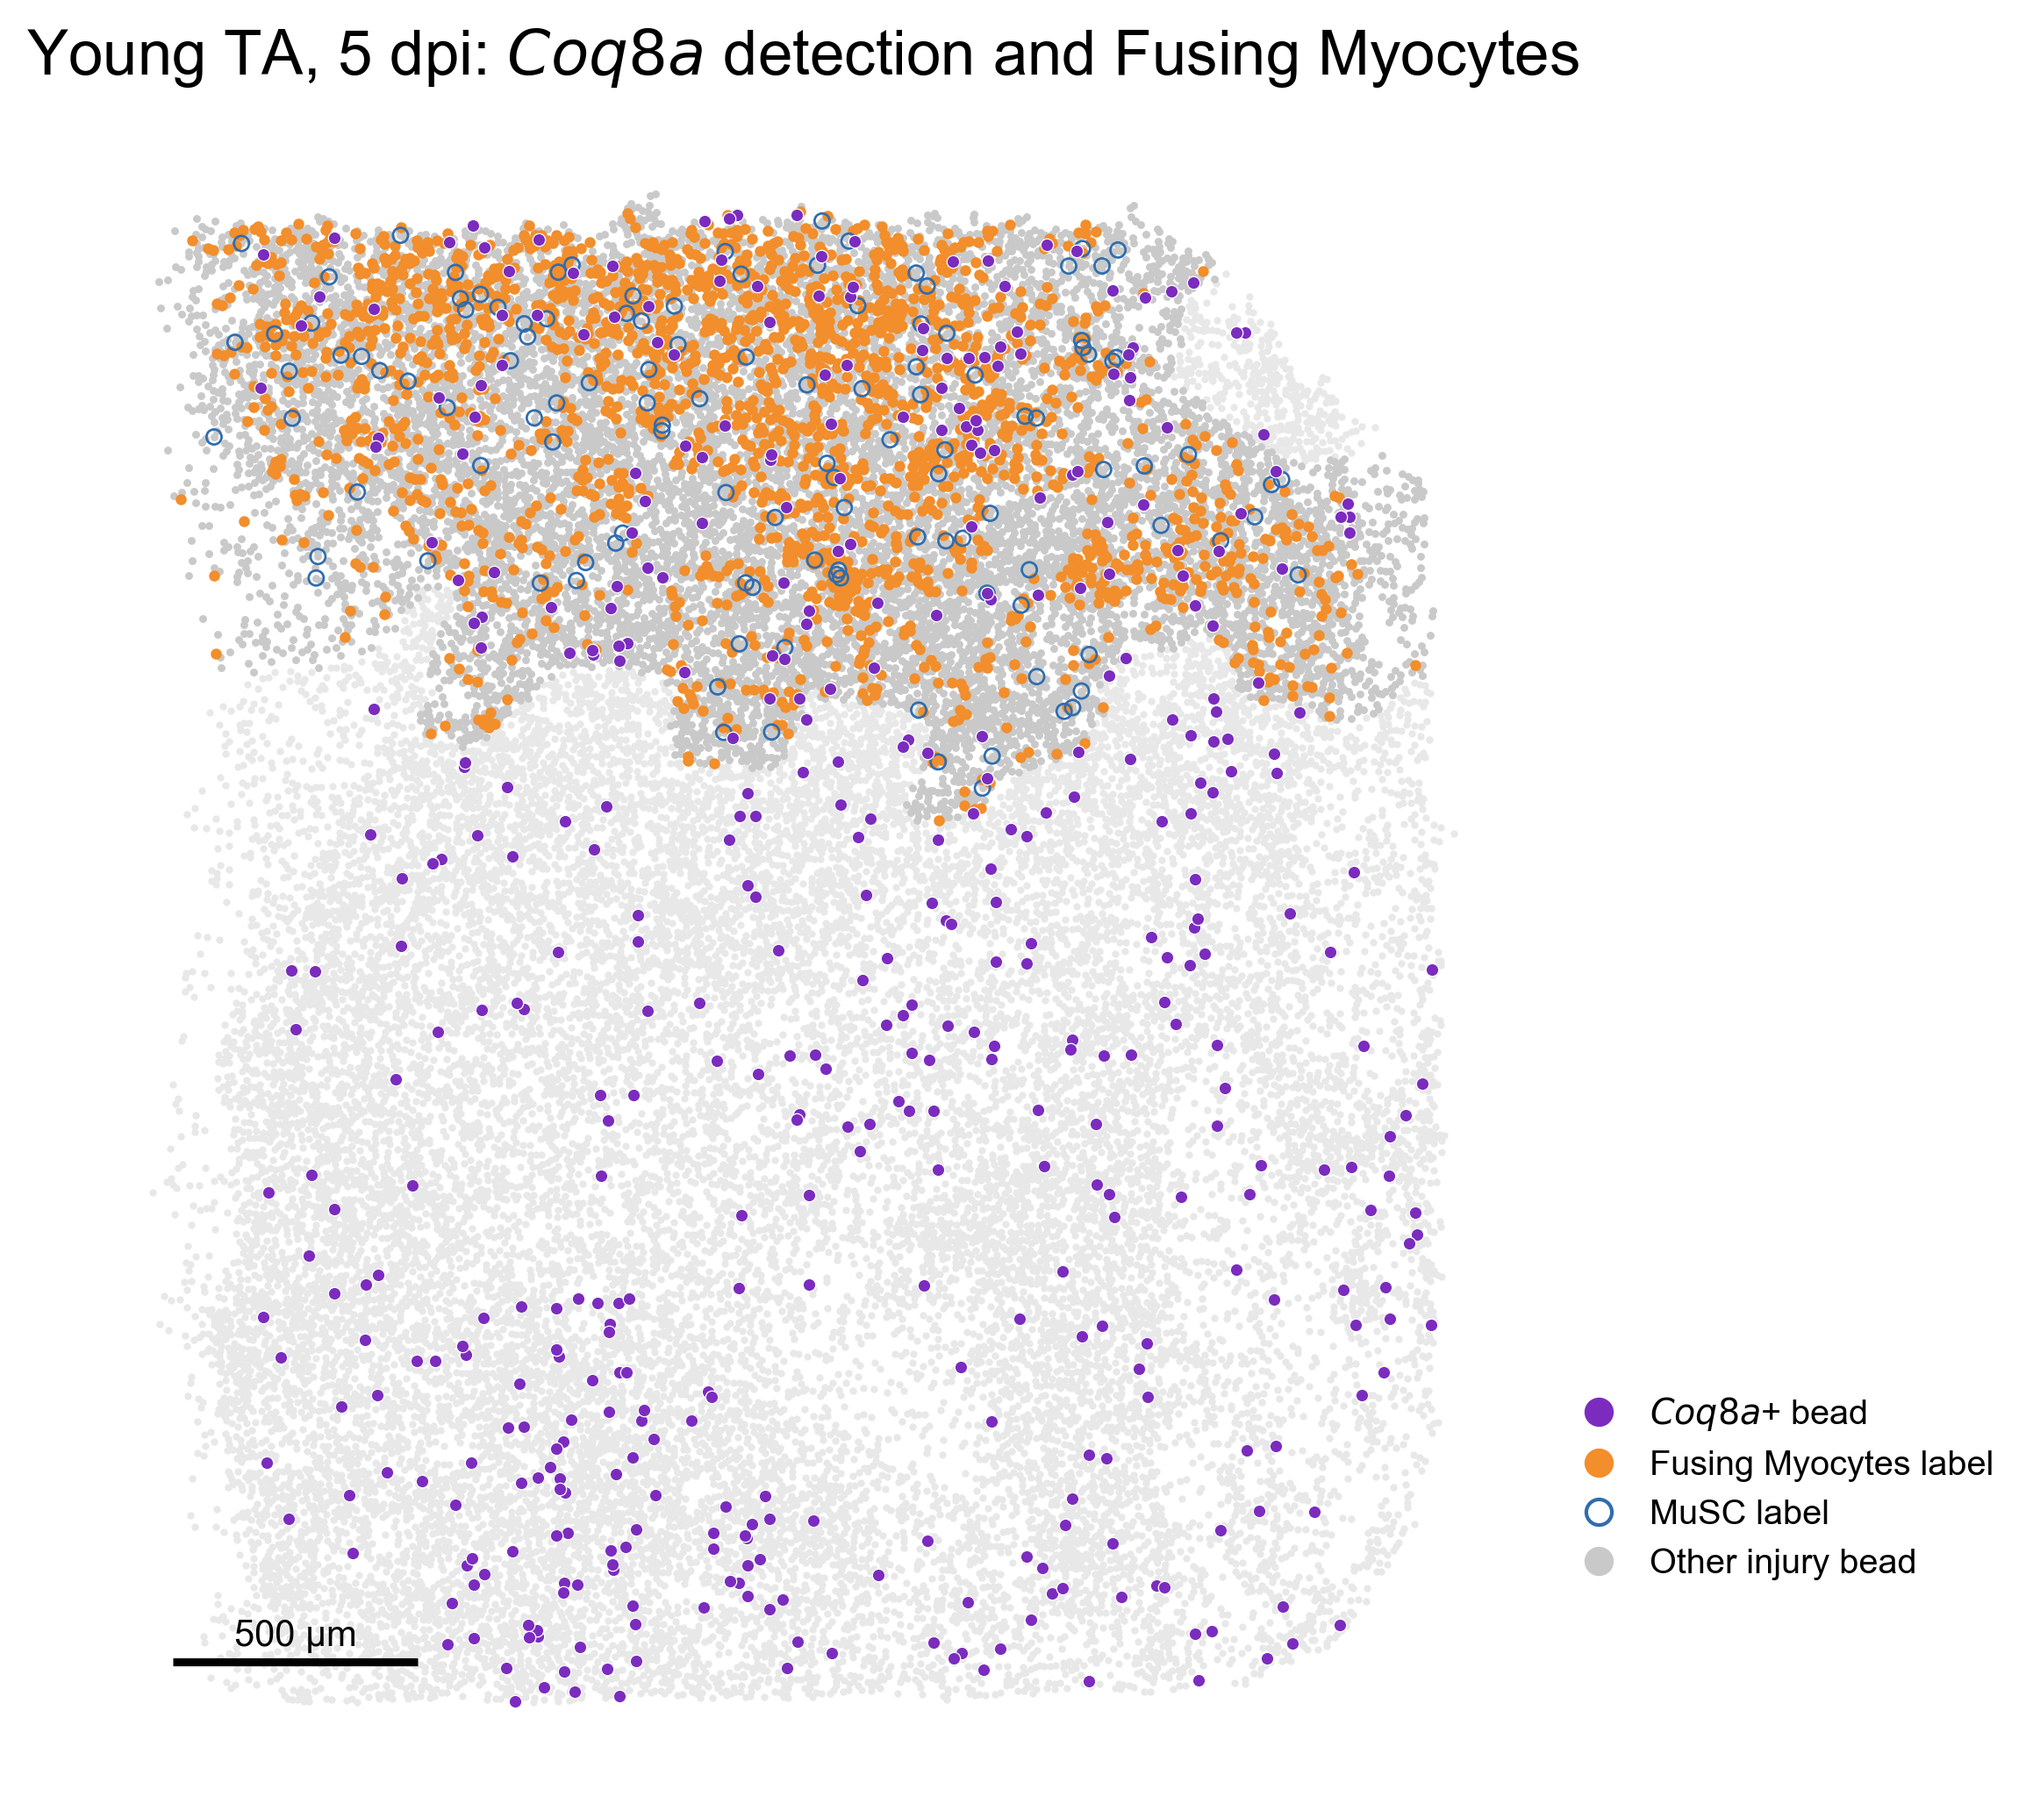
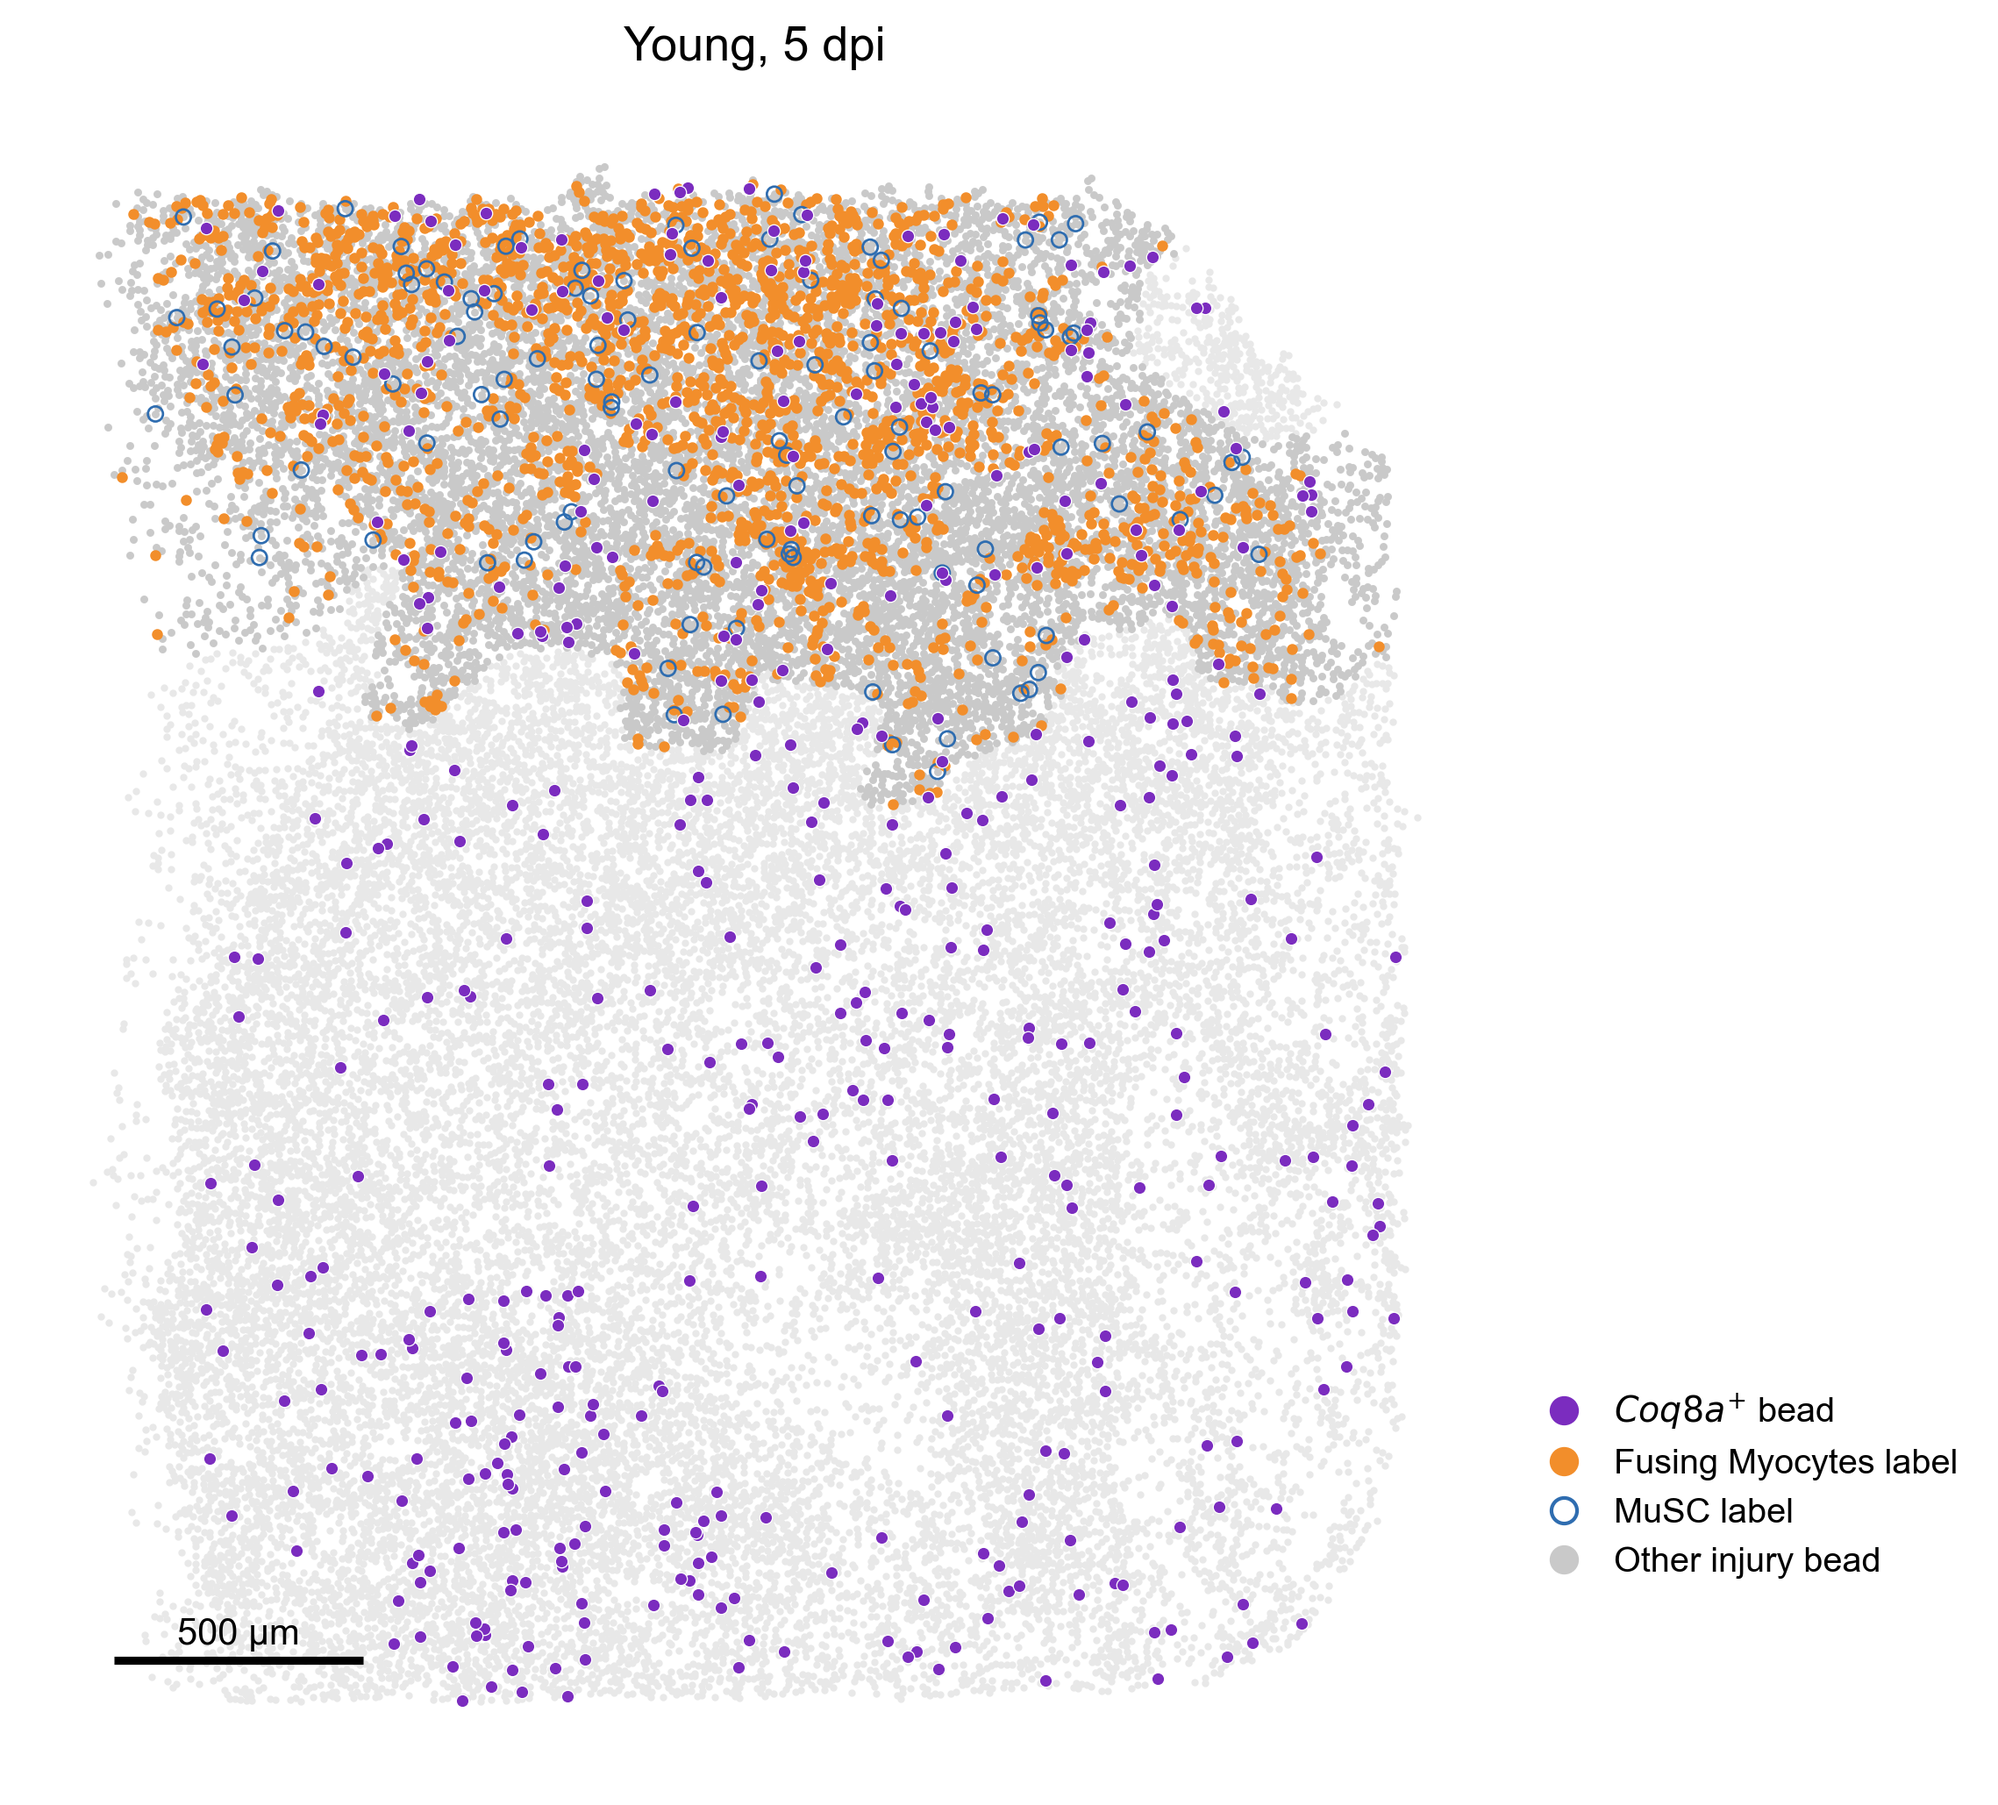
Refine manuscript figure presentation

diff --git a/code/run_spatial_analysis.py b/code/run_spatial_analysis.py
@@ -474,7 +474,9 @@ def add_scale_bar(ax, length_um: int = 500, side: str = "left"):
 
 
 def plot_qc(qc: pd.DataFrame, output: Path):
-    fig, axes = plt.subplots(1, 2, figsize=(10.4, 4.8), gridspec_kw={"width_ratios": [1.25, 1]})
+    fig = plt.figure(figsize=(8.2, 6.2), constrained_layout=True)
+    grid = fig.add_gridspec(2, 3, height_ratios=[1.15, 1])
+    axes = [fig.add_subplot(grid[0, :])] + [fig.add_subplot(grid[1, i]) for i in range(3)]
     stages = ["Raw beads", "Counts ≥20", "Final retained beads"]
     x = np.arange(len(stages))
     width = 0.34
@@ -484,25 +486,31 @@ def plot_qc(qc: pd.DataFrame, output: Path):
         axes[0].bar(x + (i - 0.5) * width, values, width, color=SAMPLES[sample]["color"], label=sample)
     axes[0].set_xticks(x, stages)
     axes[0].set_ylabel("Beads")
-    axes[0].set_title("Spatial transcriptomics quality control")
+    axes[0].set_title("Bead retention", fontsize=12.5)
     axes[0].legend(frameon=False)
 
-    metrics = ["median_raw_counts", "median_mt_pct", "coq8a_detection_pct"]
-    labels = ["Median counts", "Median mtRNA (%)", r"$\it{Coq8a}$+ beads (%)"]
-    xpos = np.arange(len(metrics))
-    for offset, sample in ((-0.10, "Young"), (0.10, "Geriatric")):
-        row = qc.loc[qc["sample"].eq(sample)].iloc[0]
-        values = [row[m] for m in metrics]
-        axes[1].scatter(xpos + offset, values, s=70, color=SAMPLES[sample]["color"], label=sample)
-        for xi, value in zip(xpos + offset, values):
-            axes[1].text(xi, value, f" {value:.1f}", va="center", fontsize=9)
-    axes[1].set_xticks(xpos, labels, rotation=18, ha="right")
-    axes[1].set_title("Final spatial beads")
-    axes[1].set_ylim(bottom=0)
+    metrics = [
+        ("median_raw_counts", "Median library size", "Raw counts per bead"),
+        ("median_mt_pct", "Mitochondrial fraction", "Mitochondrial reads (%)"),
+        ("coq8a_detection_pct", r"$\it{Coq8a}$ detection", r"$\it{Coq8a}^{+}$ beads (%)"),
+    ]
+    for ax, (metric, title, ylabel) in zip(axes[1:], metrics):
+        values = []
+        for sample_index, sample in enumerate(("Young", "Geriatric")):
+            value = float(qc.loc[qc["sample"].eq(sample), metric].iloc[0])
+            values.append(value)
+            ax.scatter(sample_index, value, s=68, color=SAMPLES[sample]["color"], zorder=3)
+            ax.text(sample_index, value, f"  {value:.1f}", va="center", fontsize=9.5)
+        ax.set_xticks([0, 1], ["Young", "Geriatric"])
+        ax.set_xlim(-0.35, 1.55)
+        ax.set_ylim(0, max(values) * 1.25)
+        ax.set_title(title, fontsize=12.5)
+        ax.set_ylabel(ylabel, fontsize=10.5)
+        ax.yaxis.grid(True, color="#EAEAEA", linewidth=0.7)
+        ax.set_axisbelow(True)
     for ax in axes:
         ax.spines[["top", "right"]].set_visible(False)
-        ax.tick_params(labelsize=10)
-    fig.tight_layout()
+        ax.tick_params(labelsize=10.5)
     fig.savefig(output, dpi=300, bbox_inches="tight", facecolor="white")
     plt.close(fig)
 
@@ -517,7 +525,7 @@ def plot_celltype_map(frame: pd.DataFrame, sample: str, output: Path):
     ax.invert_yaxis()
     ax.axis("off")
     add_scale_bar(ax, side="right")
-    ax.set_title(f"{sample} TA, 5 dpi: dominant cell2location label", fontsize=17, pad=12)
+    ax.set_title(f"{sample}, 5 dpi", fontsize=13, pad=8)
     handles = [Line2D([0], [0], marker="o", linestyle="", color=CELL_COLORS[c], markersize=6, label=c) for c in CELL_TYPES]
     ax.legend(handles=handles, frameon=False, fontsize=9.2, bbox_to_anchor=(1.01, 0.5), loc="center left", handletextpad=0.4)
     fig.tight_layout()
@@ -541,9 +549,9 @@ def plot_coq_map(frame: pd.DataFrame, sample: str, output: Path):
     ax.invert_yaxis()
     ax.axis("off")
     add_scale_bar(ax)
-    ax.set_title(f"{sample} TA, 5 dpi: " + r"$\it{Coq8a}$ detection and Fusing Myocytes", fontsize=17, pad=12)
+    ax.set_title(f"{sample}, 5 dpi", fontsize=13, pad=8)
     handles = [
-        Line2D([0], [0], marker="o", linestyle="", color="#7B2CBF", markersize=7, label=r"$\it{Coq8a}$+ bead"),
+        Line2D([0], [0], marker="o", linestyle="", color="#7B2CBF", markersize=7, label=r"$\it{Coq8a}^{+}$ bead"),
         Line2D([0], [0], marker="o", linestyle="", color="#F28E2B", markersize=7, label="Fusing Myocytes label"),
         Line2D([0], [0], marker="o", linestyle="", markerfacecolor="none", markeredgecolor="#2F6DB0", markersize=7, label="MuSC label"),
         Line2D([0], [0], marker="o", linestyle="", color="#C9C9C9", markersize=7, label="Other injury bead"),
@@ -583,17 +591,15 @@ def plot_celltype_association(table: pd.DataFrame, output: Path):
         )
         sig = data["p_adj_bh_within_section_15_labels"].lt(0.05).to_numpy()
         for x_value, y_value, p_value in zip(values[sig], (y + offset)[sig], data.loc[sig, "p_adj_bh_within_section_15_labels"]):
-            ax.text(x_value * 1.18, y_value, "*", color="#A01863", fontsize=18, fontweight="bold", va="center")
-            ax.text(5.8, y_value, rf"adj. $p$={p_value:.3g}", color="#6A3153", fontsize=9.2, va="center")
+            ax.scatter(x_value, y_value, s=112, facecolors="none", edgecolors="#A01863", linewidths=1.5, zorder=4)
+            ax.text(5.8, y_value, rf"BH-adjusted $p$ = {p_value:.3g}", color="#6A3153", fontsize=9.5, va="center")
     ax.axvline(1, color="#777777", lw=1, ls="--")
     ax.set_xscale("log")
     ax.set_xlim(0.03, 45)
     ax.set_yticks(y, names)
     ax.invert_yaxis()
     ax.set_xlabel(r"Odds ratio of $\it{Coq8a}$ detection (95% CI)")
-    ax.set_title(r"$\it{Coq8a}$ detection is associated with Fusing Myocytes-labelled regions", loc="left", fontsize=15)
     ax.legend(frameon=False, loc="lower right")
-    ax.text(0.99, 0.018, r"* BH-adjusted $p$ < 0.05", transform=ax.transAxes, ha="right", fontsize=8.8, color="#555555")
     ax.spines[["top", "right"]].set_visible(False)
     ax.tick_params(labelsize=11)
     fig.tight_layout()
@@ -619,29 +625,37 @@ def plot_marker_audit(table: pd.DataFrame, output: Path):
                 "mean_expression": data.loc[gene, mean_col],
             })
     plot = pd.DataFrame(plot_rows)
-    fig, ax = plt.subplots(figsize=(7.5, 5.5))
+    fig, ax = plt.subplots(figsize=(7.8, 5.5))
+    ax.axvspan(-0.55, 1.5, color="#F3F7FB", zorder=0)
+    ax.axvspan(1.5, 3.55, color="#FCF4F3", zorder=0)
     points = ax.scatter(
         plot["x"], plot["y"],
         s=24 + 3.2 * plot["detection_pct"],
-        c=plot["mean_expression"], cmap="magma", edgecolors="#404040", linewidths=0.45,
+        c=plot["mean_expression"], cmap="magma", edgecolors="white", linewidths=0.55,
+        zorder=3,
     )
-    ax.axvline(1.5, color="#B0B0B0", lw=1)
-    ax.set_xticks(range(4), ["Young\nFusing", "Young\nOther injury", "Geriatric\nFusing", "Geriatric\nOther injury"])
-    ax.set_yticks(range(len(genes)), genes)
+    ax.set_xticks(range(4), ["Fusing\nmyocytes", "Other injury", "Fusing\nmyocytes", "Other injury"])
+    ax.set_yticks(range(len(genes)), [rf"$\it{{{gene}}}$" for gene in genes])
     ax.invert_yaxis()
     ax.set_xlim(-0.65, 3.65)
-    ax.set_title("Myogenic marker profiles in Fusing Myocytes-labelled regions", loc="left", fontsize=15)
     ax.set_xlabel("")
-    ax.tick_params(labelsize=11)
+    ax.tick_params(labelsize=12)
     ax.spines[["top", "right", "left", "bottom"]].set_visible(False)
-    ax.grid(axis="both", color="#ECECEC", lw=0.8, zorder=0)
+    ax.text(0.25, 1.02, "Young", transform=ax.transAxes, ha="center", va="bottom", fontsize=11.5, fontweight="bold", color=SAMPLES["Young"]["color"])
+    ax.text(0.75, 1.02, "Geriatric", transform=ax.transAxes, ha="center", va="bottom", fontsize=11.5, fontweight="bold", color=SAMPLES["Geriatric"]["color"])
     colorbar = fig.colorbar(points, ax=ax, fraction=0.045, pad=0.035)
-    colorbar.set_label("Mean expression\n(log1p counts per 10,000)", fontsize=10)
-    for pct, x0 in zip((10, 30, 50), (0.48, 0.61, 0.76)):
-        ax.scatter(x0, -0.16, s=24 + 3.2 * pct, transform=ax.transAxes, color="#BDBDBD", edgecolors="#404040", linewidths=0.45, clip_on=False)
-        ax.text(x0, -0.24, f"{pct}%", transform=ax.transAxes, ha="center", fontsize=8.5)
-    ax.text(0.62, -0.32, "Dot size: beads with detected transcript", transform=ax.transAxes, ha="center", fontsize=9.2)
-    fig.subplots_adjust(left=0.16, right=0.87, bottom=0.26, top=0.88)
+    colorbar.set_label("Mean expression\nln(counts per 10,000 + 1)", fontsize=10.5)
+    colorbar.ax.tick_params(labelsize=10)
+    size_handles = [
+        ax.scatter([], [], s=24 + 3.2 * pct, facecolor="#BDBDBD", edgecolor="white", linewidth=0.55, label=f"{pct}%")
+        for pct in (10, 30, 50)
+    ]
+    ax.legend(
+        handles=size_handles, title="Beads with detected transcript", ncol=3,
+        frameon=False, bbox_to_anchor=(0.5, -0.19), loc="upper center",
+        fontsize=9.5, title_fontsize=10,
+    )
+    fig.subplots_adjust(left=0.17, right=0.87, bottom=0.23, top=0.91)
     fig.savefig(output, dpi=300, bbox_inches="tight", facecolor="white")
     plt.close(fig)
 
@@ -657,10 +671,9 @@ def plot_local_enrichment(table: pd.DataFrame, output: Path):
     ax.axhline(1, color="#777777", lw=1, ls="--")
     ax.set_ylim(0.99, 1.255)
     ax.set_xlabel("Radius around Fusing Myocytes foci (µm)")
-    ax.set_ylabel(r"$\it{Coq8a}$+ density, observed / random foci")
-    ax.set_title(r"$\it{Coq8a}$ is locally enriched around Fusing Myocytes-labelled regions", loc="left", fontsize=15)
+    ax.set_ylabel(r"Relative $\it{Coq8a}^{+}$ bead density" + "\n(observed/random foci)")
     ax.legend(frameon=False)
-    ax.text(0.985, 0.76, r"* BH-adjusted $p$ < 0.05", transform=ax.transAxes, ha="right", fontsize=9, color="#555555")
+    ax.text(0.985, 0.86, r"* BH-adjusted $p$ < 0.05", transform=ax.transAxes, ha="right", fontsize=9.5, color="#555555")
     ax.spines[["top", "right"]].set_visible(False)
     ax.tick_params(labelsize=11)
     fig.tight_layout()
@@ -674,8 +687,7 @@ def plot_region_detection(table: pd.DataFrame, output: Path):
         data = table.loc[table["sample"].eq(sample)].set_index("region").reindex(["Outside", "Injury"])
         ax.plot([0, 1], data["coq8a_detection_pct"], marker="o", ms=7, lw=2, color=SAMPLES[sample]["color"], label=sample)
     ax.set_xticks([0, 1], ["Outside injury zone", "Injury zone"])
-    ax.set_ylabel(r"$\it{Coq8a}$+ beads (%)")
-    ax.set_title(r"$\it{Coq8a}$ detection across injury and non-injury regions", loc="left", fontsize=15)
+    ax.set_ylabel(r"$\it{Coq8a}^{+}$ beads (%)")
     ax.legend(frameon=False)
     ax.spines[["top", "right"]].set_visible(False)
     ax.tick_params(labelsize=11)
